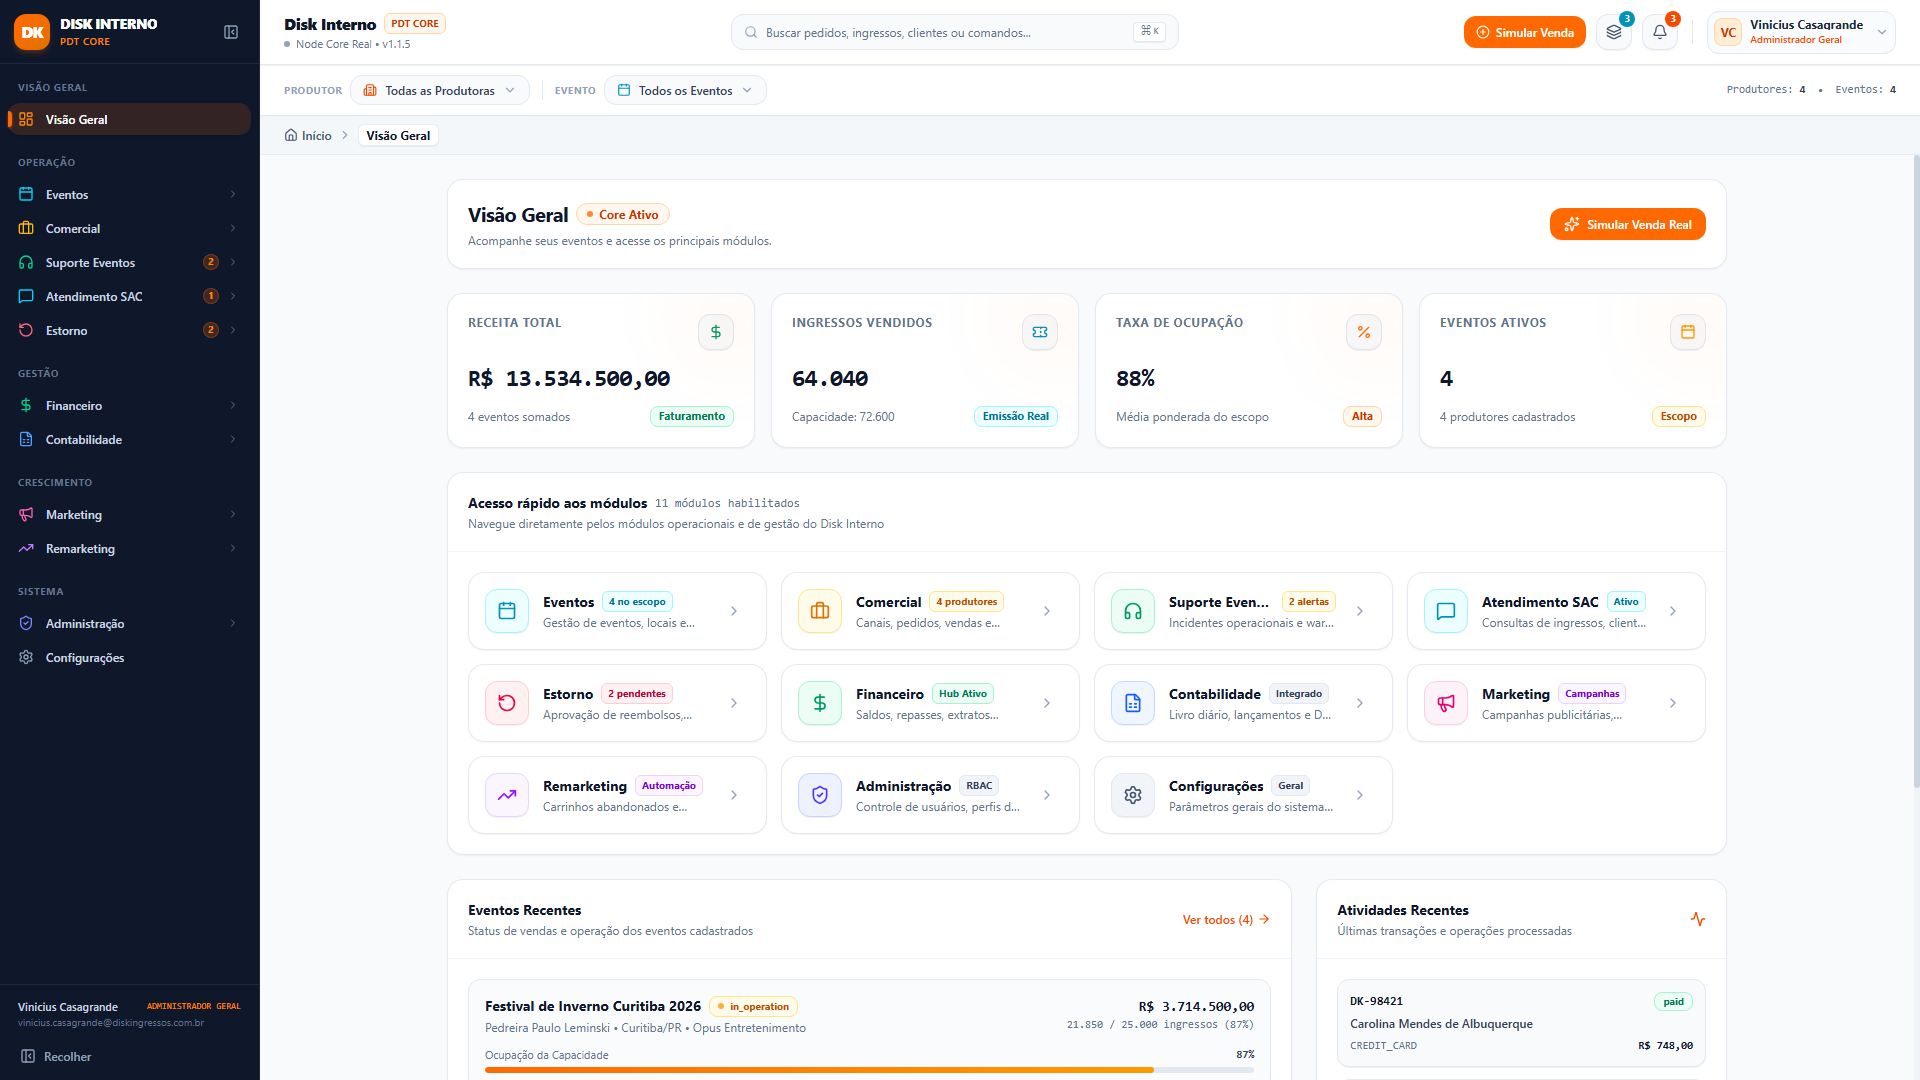
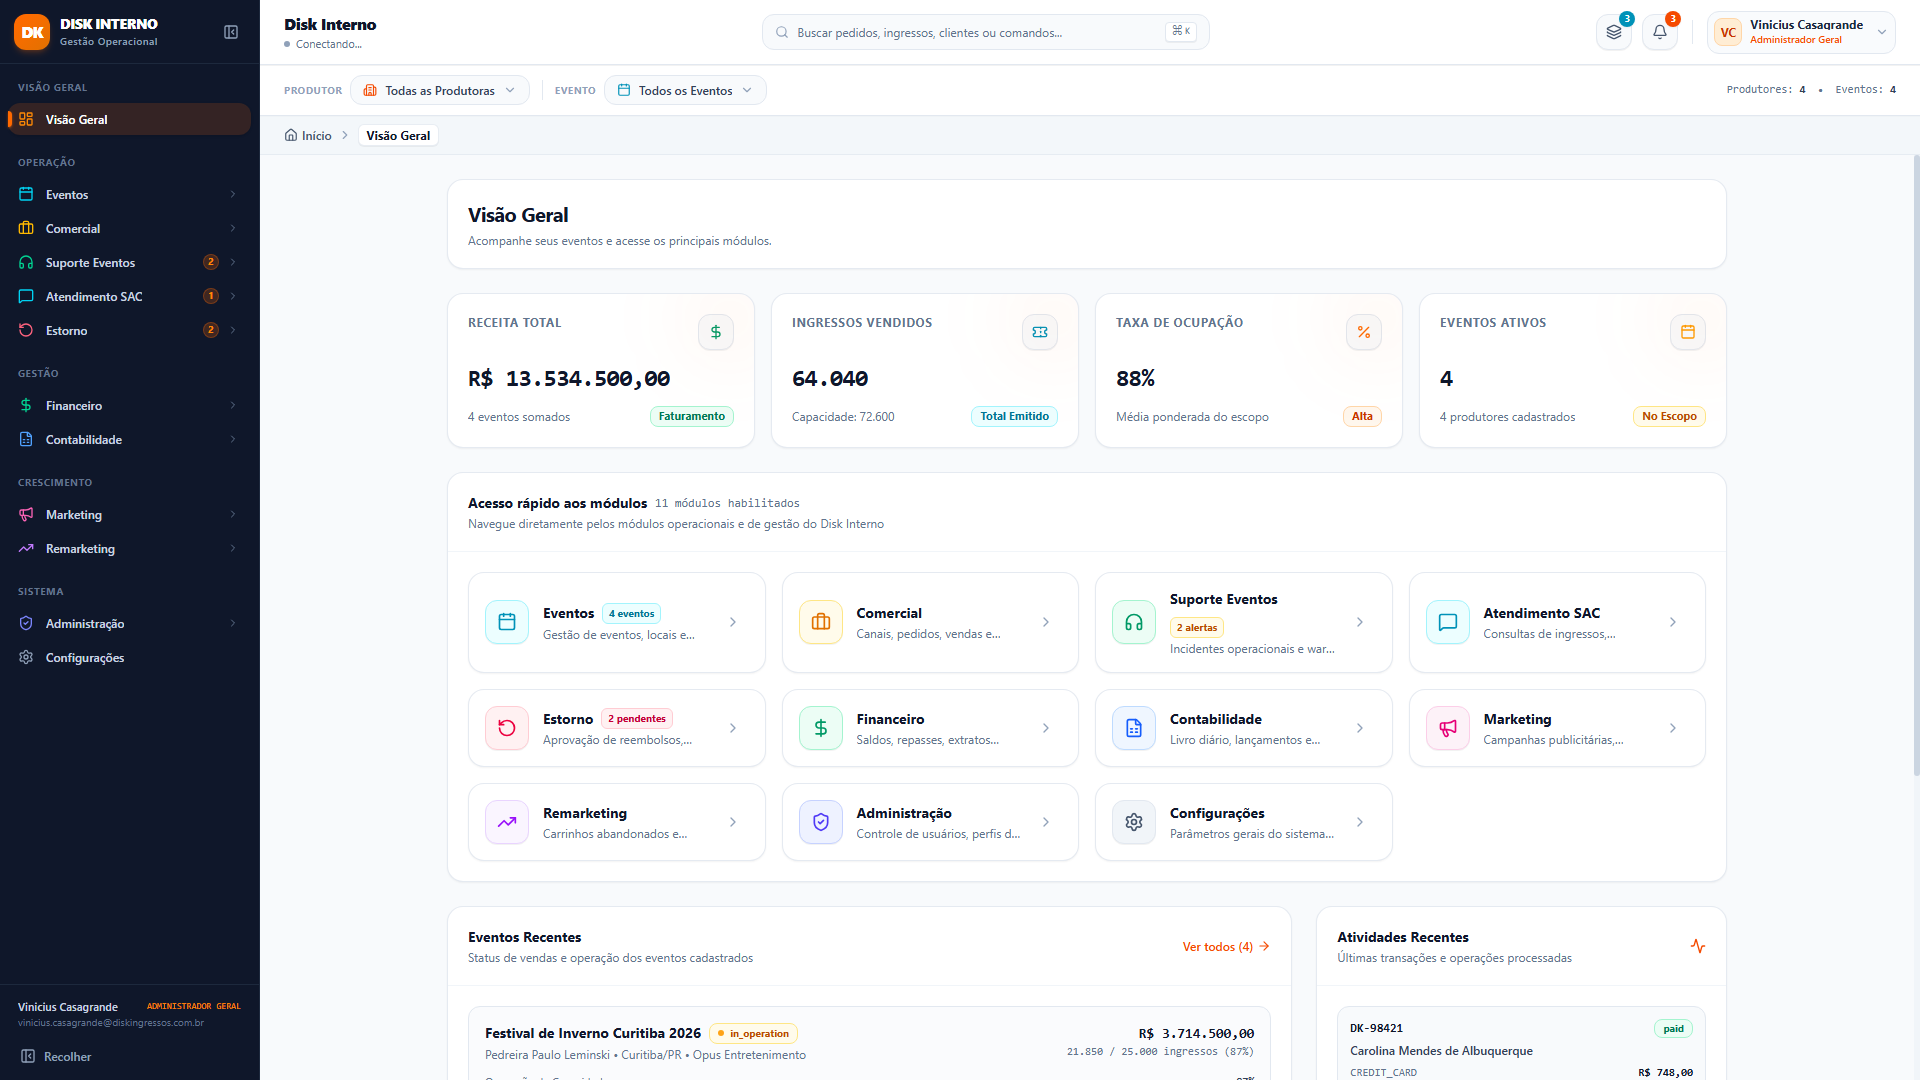
fix(ui): remover textos tecnicos, ajustar truncamento de cards e refinar acabamento

diff --git a/apps/web/src/modules/overview/OverviewDashboard.tsx b/apps/web/src/modules/overview/OverviewDashboard.tsx
@@ -4,7 +4,6 @@ import {
   Ticket,
   Calendar,
   Percent,
-  Sparkles,
   ArrowRight,
   Briefcase,
   Headphones,
@@ -29,12 +28,11 @@ import { formatCurrency, formatNumber } from '../../shared/utils/formatters';
 
 interface OverviewDashboardProps {
   onNavigate: (moduleId: string, subItemId?: string) => void;
-  onOpenNewSale: () => void;
+  onOpenNewSale?: () => void;
 }
 
 export const OverviewDashboard: React.FC<OverviewDashboardProps> = ({
-  onNavigate,
-  onOpenNewSale
+  onNavigate
 }) => {
   const {
     events,
@@ -60,6 +58,7 @@ export const OverviewDashboard: React.FC<OverviewDashboardProps> = ({
 
   const pendingRefundsCount = refunds.filter((r) => r.status === 'pending_approval').length;
   const activeIncidentsCount = incidents.filter((i) => i.status !== 'resolved').length;
+  const openSacCount = 0; // Sac tickets awaiting resolution
 
   // Module access list per Section 15
   const MODULE_ITEMS = [
@@ -69,7 +68,7 @@ export const OverviewDashboard: React.FC<OverviewDashboardProps> = ({
       description: 'Gestão de eventos, locais e sessões de vendas',
       icon: <Calendar className="h-5 w-5 text-cyan-600" />,
       iconBg: 'bg-cyan-50 text-cyan-600 border-cyan-200',
-      badge: `${filteredEvents.length} no escopo`,
+      badge: `${filteredEvents.length} eventos`,
       badgeVariant: 'cyan' as const,
       requiredPermission: 'eventos.evento.visualizar'
     },
@@ -79,8 +78,7 @@ export const OverviewDashboard: React.FC<OverviewDashboardProps> = ({
       description: 'Canais, pedidos, vendas e condições de produtores',
       icon: <Briefcase className="h-5 w-5 text-amber-600" />,
       iconBg: 'bg-amber-50 text-amber-600 border-amber-200',
-      badge: `${producers.length} produtores`,
-      badgeVariant: 'amber' as const,
+      badge: undefined,
       requiredPermission: 'comercial.dashboard.visualizar'
     },
     {
@@ -89,8 +87,8 @@ export const OverviewDashboard: React.FC<OverviewDashboardProps> = ({
       description: 'Incidentes operacionais e war room em tempo real',
       icon: <Headphones className="h-5 w-5 text-emerald-600" />,
       iconBg: 'bg-emerald-50 text-emerald-600 border-emerald-200',
-      badge: activeIncidentsCount > 0 ? `${activeIncidentsCount} alertas` : 'Operando',
-      badgeVariant: activeIncidentsCount > 0 ? ('amber' as const) : ('emerald' as const),
+      badge: activeIncidentsCount > 0 ? `${activeIncidentsCount} alertas` : undefined,
+      badgeVariant: 'amber' as const,
       requiredPermission: 'suporte.incidentes.visualizar'
     },
     {
@@ -99,7 +97,7 @@ export const OverviewDashboard: React.FC<OverviewDashboardProps> = ({
       description: 'Consultas de ingressos, clientes e tickets de suporte',
       icon: <MessageSquare className="h-5 w-5 text-cyan-600" />,
       iconBg: 'bg-cyan-50 text-cyan-600 border-cyan-200',
-      badge: 'Ativo',
+      badge: openSacCount > 0 ? `${openSacCount} fila` : undefined,
       badgeVariant: 'cyan' as const,
       requiredPermission: 'sac.consulta.acessar'
     },
@@ -109,8 +107,8 @@ export const OverviewDashboard: React.FC<OverviewDashboardProps> = ({
       description: 'Aprovação de reembolsos, chargebacks e disputas',
       icon: <RotateCcw className="h-5 w-5 text-rose-600" />,
       iconBg: 'bg-rose-50 text-rose-600 border-rose-200',
-      badge: pendingRefundsCount > 0 ? `${pendingRefundsCount} pendentes` : 'Zero fila',
-      badgeVariant: pendingRefundsCount > 0 ? ('rose' as const) : ('emerald' as const),
+      badge: pendingRefundsCount > 0 ? `${pendingRefundsCount} pendentes` : undefined,
+      badgeVariant: 'rose' as const,
       requiredPermission: 'estorno.solicitacao.visualizar'
     },
     {
@@ -119,8 +117,7 @@ export const OverviewDashboard: React.FC<OverviewDashboardProps> = ({
       description: 'Saldos, repasses, extratos bancários e conciliação',
       icon: <DollarSign className="h-5 w-5 text-emerald-600" />,
       iconBg: 'bg-emerald-50 text-emerald-600 border-emerald-200',
-      badge: 'Hub Ativo',
-      badgeVariant: 'emerald' as const,
+      badge: undefined,
       requiredPermission: 'financeiro.saldo.visualizar'
     },
     {
@@ -129,8 +126,7 @@ export const OverviewDashboard: React.FC<OverviewDashboardProps> = ({
       description: 'Livro diário, lançamentos e DRE gerencial',
       icon: <FileSpreadsheet className="h-5 w-5 text-blue-600" />,
       iconBg: 'bg-blue-50 text-blue-600 border-blue-200',
-      badge: 'Integrado',
-      badgeVariant: 'slate' as const,
+      badge: undefined,
       requiredPermission: 'contabilidade.diario.visualizar'
     },
     {
@@ -139,8 +135,7 @@ export const OverviewDashboard: React.FC<OverviewDashboardProps> = ({
       description: 'Campanhas publicitárias, análise de ROAS e pixels',
       icon: <Megaphone className="h-5 w-5 text-pink-600" />,
       iconBg: 'bg-pink-50 text-pink-600 border-pink-200',
-      badge: 'Campanhas',
-      badgeVariant: 'purple' as const,
+      badge: undefined,
       requiredPermission: 'marketing.campanha.visualizar'
     },
     {
@@ -149,8 +144,7 @@ export const OverviewDashboard: React.FC<OverviewDashboardProps> = ({
       description: 'Carrinhos abandonados e réguas automatizadas',
       icon: <TrendingUp className="h-5 w-5 text-purple-600" />,
       iconBg: 'bg-purple-50 text-purple-600 border-purple-200',
-      badge: 'Automação',
-      badgeVariant: 'purple' as const,
+      badge: undefined,
       requiredPermission: 'remarketing.carrinhos.visualizar'
     },
     {
@@ -159,8 +153,7 @@ export const OverviewDashboard: React.FC<OverviewDashboardProps> = ({
       description: 'Controle de usuários, perfis de acesso e auditoria',
       icon: <ShieldCheck className="h-5 w-5 text-indigo-600" />,
       iconBg: 'bg-indigo-50 text-indigo-600 border-indigo-200',
-      badge: 'RBAC',
-      badgeVariant: 'slate' as const,
+      badge: undefined,
       requiredPermission: 'admin.usuarios.visualizar'
     },
     {
@@ -169,8 +162,7 @@ export const OverviewDashboard: React.FC<OverviewDashboardProps> = ({
       description: 'Parâmetros gerais do sistema e políticas operacionais',
       icon: <Settings className="h-5 w-5 text-slate-600" />,
       iconBg: 'bg-slate-100 text-slate-700 border-slate-200',
-      badge: 'Geral',
-      badgeVariant: 'slate' as const,
+      badge: undefined,
       requiredPermission: 'admin.configuracoes.editar'
     }
   ];
@@ -186,15 +178,9 @@ export const OverviewDashboard: React.FC<OverviewDashboardProps> = ({
       {/* 1. Header da Página: Título e Descrição Aprovados */}
       <div className="flex flex-col sm:flex-row sm:items-center justify-between gap-4 rounded-2xl border border-slate-200/90 bg-white p-5 shadow-xs">
         <div>
-          <div className="flex items-center gap-2">
-            <h1 className="text-xl font-bold tracking-tight text-slate-900">
-              Visão Geral
-            </h1>
-            <span className="inline-flex items-center gap-1.5 rounded-full bg-orange-50 px-2.5 py-0.5 text-xs font-bold text-orange-700 border border-orange-200">
-              <span className="h-1.5 w-1.5 rounded-full bg-orange-500 animate-pulse" />
-              Core Ativo
-            </span>
-          </div>
+          <h1 className="text-xl font-bold tracking-tight text-slate-900">
+            Visão Geral
+          </h1>
           <p className="text-xs text-slate-500 mt-1">
             {currentProducer
               ? `Acompanhe seus eventos e acesse os principais módulos • Filtrado por: ${currentProducer.name} ${
@@ -202,16 +188,6 @@ export const OverviewDashboard: React.FC<OverviewDashboardProps> = ({
                 }`
               : 'Acompanhe seus eventos e acesse os principais módulos.'}
           </p>
-        </div>
-
-        <div className="flex items-center gap-2.5 shrink-0">
-          <button
-            onClick={onOpenNewSale}
-            className="inline-flex items-center gap-2 rounded-xl bg-orange-500 px-3.5 py-2 text-xs font-semibold text-white shadow-xs hover:bg-orange-600 transition-all cursor-pointer"
-          >
-            <Sparkles className="h-4 w-4" />
-            Simular Venda Real
-          </button>
         </div>
       </div>
 
@@ -231,7 +207,7 @@ export const OverviewDashboard: React.FC<OverviewDashboardProps> = ({
           value={formatNumber(totalTickets)}
           subtitle={`Capacidade: ${formatNumber(totalCapacity)}`}
           icon={<Ticket className="h-4 w-4 text-cyan-600" />}
-          badge="Emissão Real"
+          badge="Total Emitido"
           badgeVariant="cyan"
         />
 
@@ -249,7 +225,7 @@ export const OverviewDashboard: React.FC<OverviewDashboardProps> = ({
           value={filteredEvents.length}
           subtitle={`${producers.length} produtores cadastrados`}
           icon={<Calendar className="h-4 w-4 text-amber-500" />}
-          badge="Escopo"
+          badge="No Escopo"
           badgeVariant="amber"
         />
       </div>
@@ -264,7 +240,7 @@ export const OverviewDashboard: React.FC<OverviewDashboardProps> = ({
           </span>
         }
       >
-        <div className="grid grid-cols-1 sm:grid-cols-2 lg:grid-cols-3 xl:grid-cols-4 gap-3.5">
+        <div className="grid grid-cols-1 sm:grid-cols-2 lg:grid-cols-3 xl:grid-cols-3 2xl:grid-cols-4 gap-4">
           {visibleModules.map((mod) => (
             <ModuleAccessCard
               key={mod.id}

diff --git a/apps/web/src/shared/components/AppHeader.tsx b/apps/web/src/shared/components/AppHeader.tsx
@@ -75,9 +75,6 @@ export const AppHeader: React.FC<AppHeaderProps> = ({
                 <span className="text-base font-black tracking-tight text-slate-900">
                   Disk Interno
                 </span>
-                <span className="hidden sm:inline-flex rounded-md bg-orange-50 px-1.5 py-0.5 text-[10px] font-bold text-orange-700 border border-orange-200">
-                  PDT CORE
-                </span>
               </div>
               <div className="flex items-center gap-1.5 text-[11px] text-slate-500">
                 <span
@@ -90,7 +87,7 @@ export const AppHeader: React.FC<AppHeaderProps> = ({
                   }`}
                 />
                 <span className="truncate">
-                  {connectionStatus === 'CONNECTED' ? 'Realtime Conectado' : 'Node Core Real'} • v1.1.5
+                  {connectionStatus === 'CONNECTED' ? 'Sistema Online' : 'Conectando...'}
                 </span>
               </div>
             </div>
@@ -123,15 +120,6 @@ export const AppHeader: React.FC<AppHeaderProps> = ({
             className="md:hidden flex h-9 w-9 items-center justify-center rounded-xl border border-slate-200 bg-slate-50 text-slate-600 hover:bg-white transition-colors cursor-pointer"
           >
             <Search className="h-4 w-4" />
-          </button>
-
-          {/* Quick Action: Simular Venda */}
-          <button
-            onClick={onOpenNewSale}
-            className="hidden sm:inline-flex items-center gap-1.5 rounded-xl bg-orange-500 px-3 py-2 text-xs font-semibold text-white shadow-xs hover:bg-orange-600 transition-colors cursor-pointer"
-          >
-            <PlusCircle className="h-3.5 w-3.5" />
-            <span>Simular Venda</span>
           </button>
 
           {/* Audit Logs button */}

diff --git a/apps/web/src/shared/components/ModuleAccessCard.tsx b/apps/web/src/shared/components/ModuleAccessCard.tsx
@@ -1,5 +1,5 @@
 import React from 'react';
-import { ChevronRight, ArrowUpRight } from 'lucide-react';
+import { ChevronRight } from 'lucide-react';
 import { cn } from '../utils/cn';
 
 export interface ModuleAccessCardProps {
@@ -41,7 +41,7 @@ export const ModuleAccessCard: React.FC<ModuleAccessCardProps> = ({
         className
       )}
     >
-      <div className="flex items-center gap-3.5 min-w-0">
+      <div className="flex items-center gap-3.5 min-w-0 flex-1">
         {/* Icon container */}
         <div
           className={cn(
@@ -53,9 +53,9 @@ export const ModuleAccessCard: React.FC<ModuleAccessCardProps> = ({
         </div>
 
         {/* Text details */}
-        <div className="min-w-0 pr-2">
-          <div className="flex items-center gap-2">
-            <h3 className="text-sm font-bold text-slate-900 truncate group-hover:text-orange-600 transition-colors">
+        <div className="min-w-0 flex-1 pr-2">
+          <div className="flex items-center gap-2 flex-wrap">
+            <h3 className="text-sm font-bold text-slate-900 group-hover:text-orange-600 transition-colors whitespace-nowrap">
               {title}
             </h3>
             {badge && (

diff --git a/apps/web/src/shared/components/AppSidebar.tsx b/apps/web/src/shared/components/AppSidebar.tsx
@@ -279,8 +279,8 @@ export const AppSidebar: React.FC<AppSidebarProps> = ({
               <span className="text-sm font-black tracking-tight text-white truncate">
                 DISK INTERNO
               </span>
-              <span className="text-[10px] font-semibold text-orange-400 tracking-wider">
-                PDT CORE
+              <span className="text-[10px] font-medium text-slate-400 tracking-wider">
+                Gestão Operacional
               </span>
             </div>
           )}
